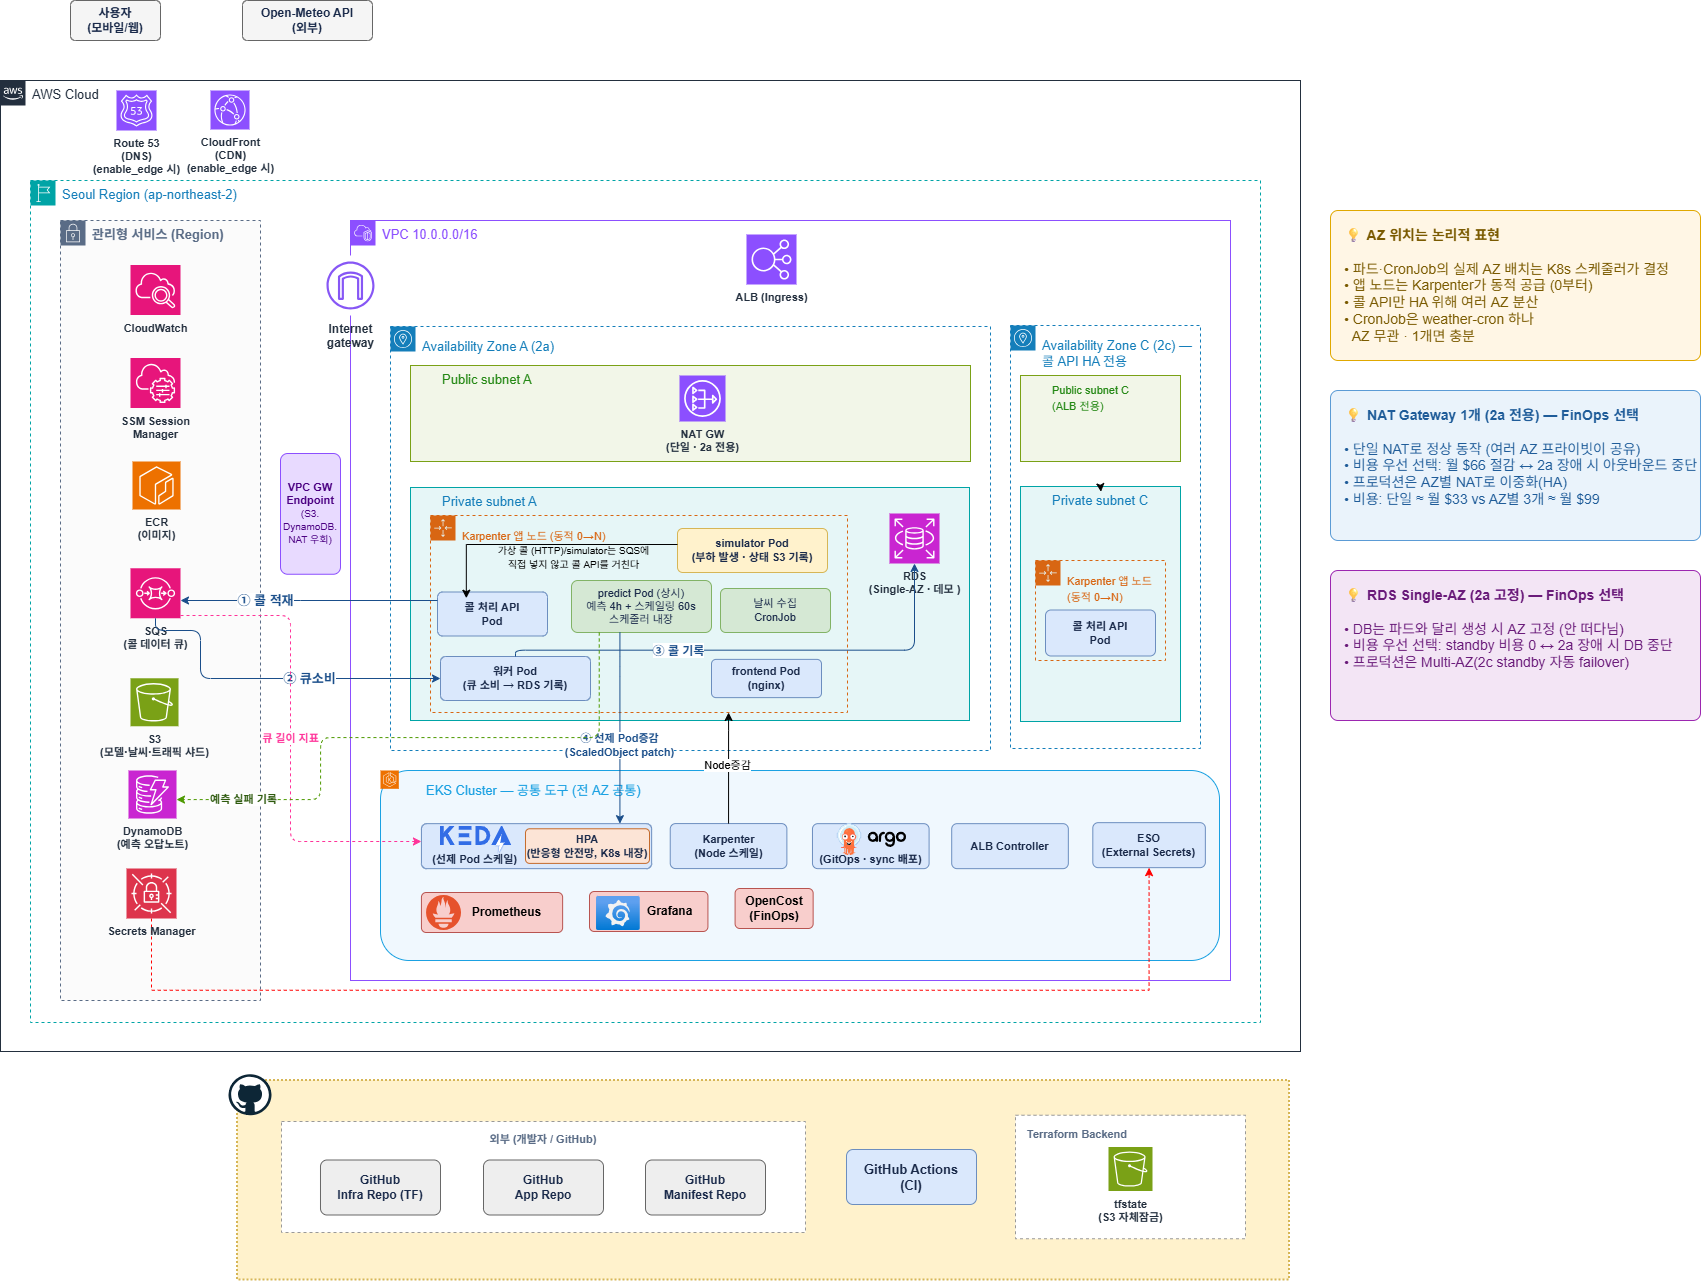
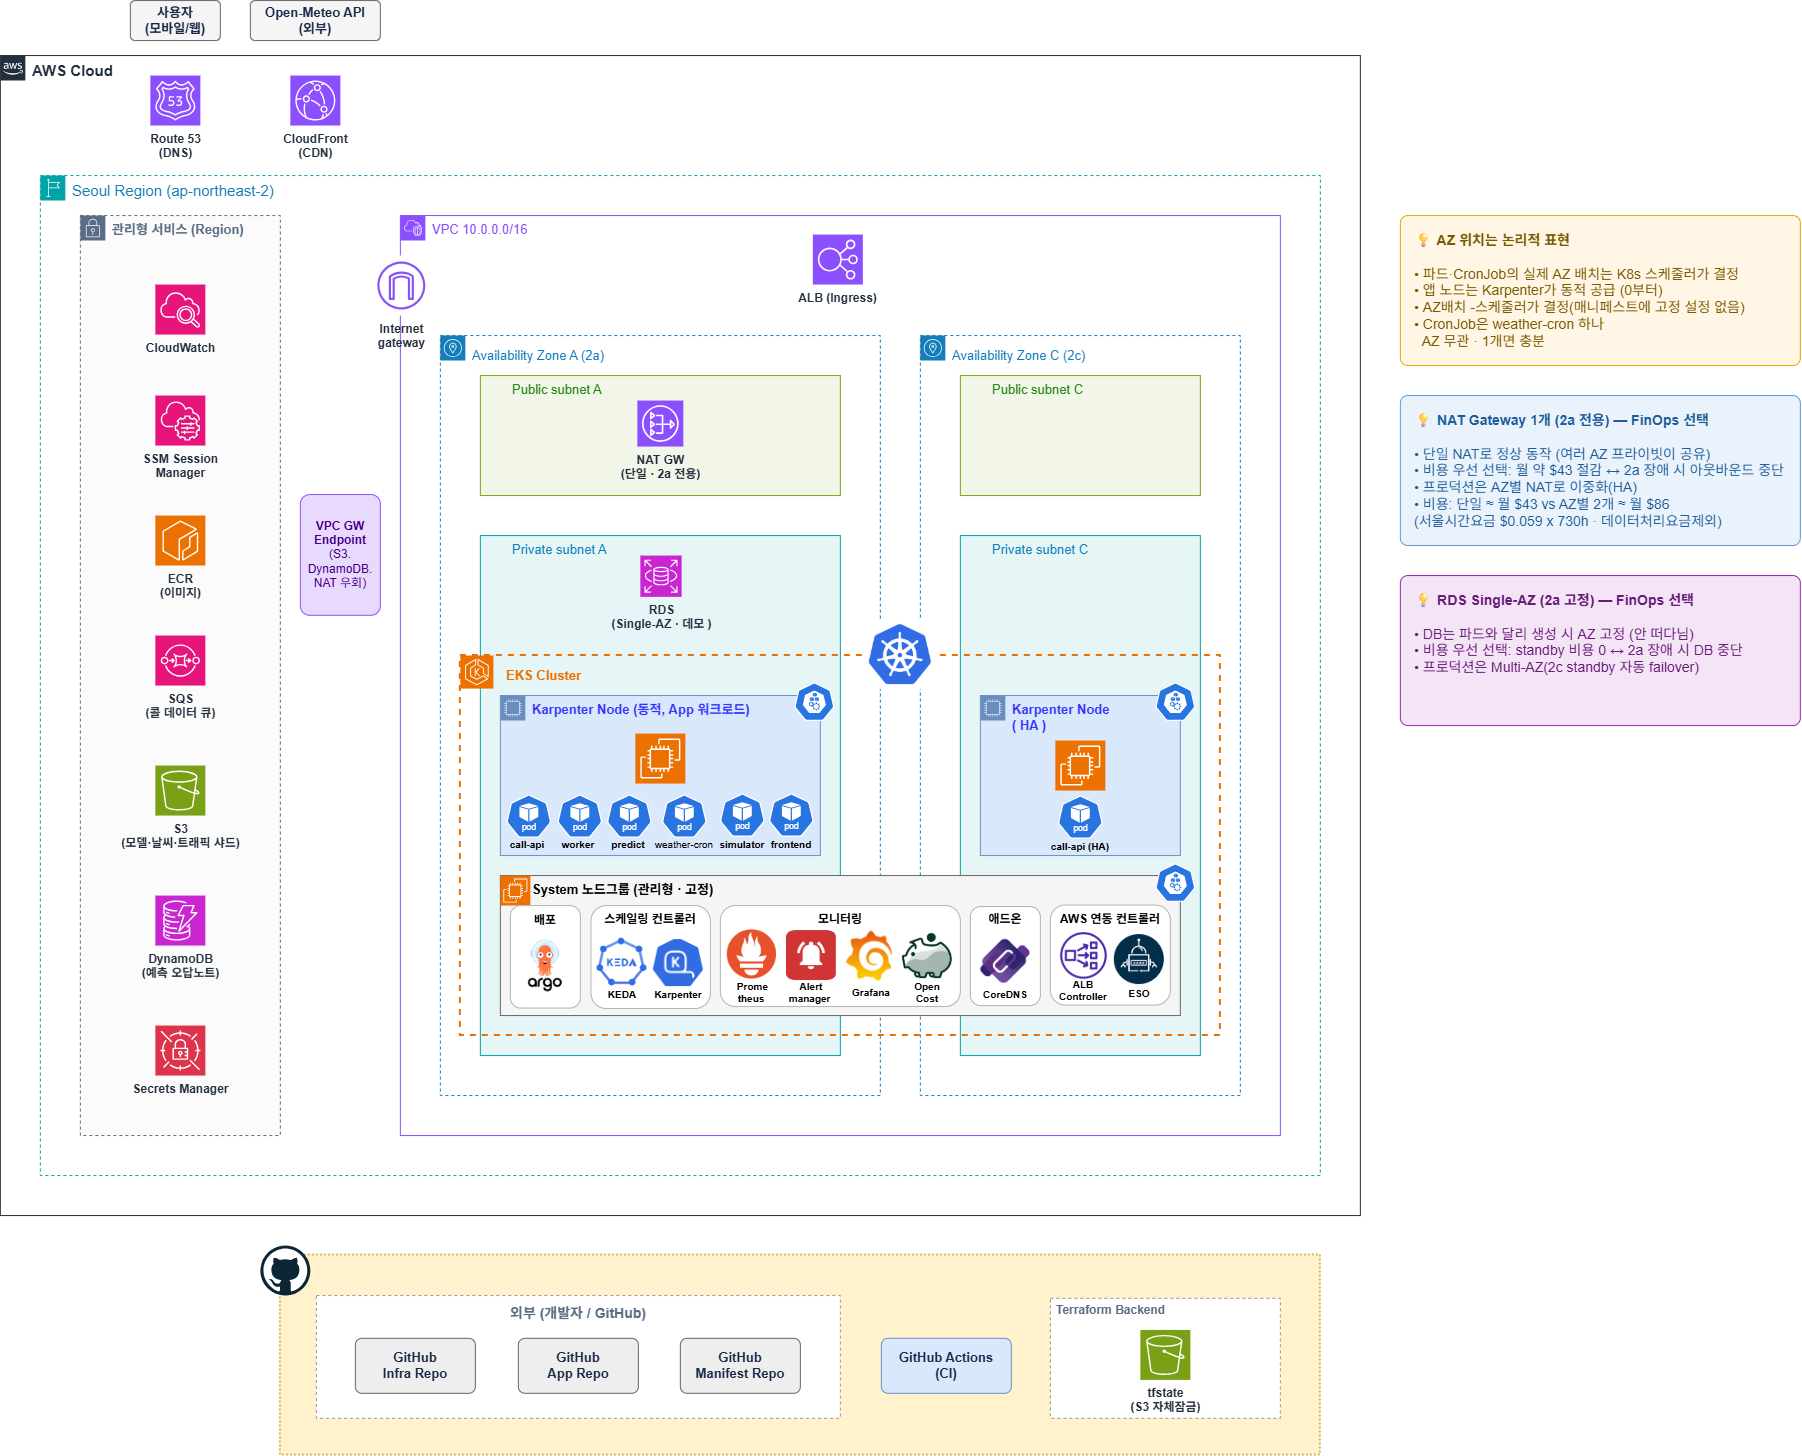
Docs(readme): 아키텍처 다이어그램 갱신·본문 정정
- architecture.png·cluster-topology.png를 최신 설계로 교체
- pod-architecture.png 신규 추가, README 3절에 연결
- 컴퓨트 계층 설명에 노드 배치가 taint·nodeSelector로
  강제되지 않는다는 사실 반영
- 예산 경보 책임 주체를 인프라 담당자(계정 주인)로 명확화
- 협업 규약의 승인 수 관련 경위 문구 삭제(현재 상태만 남김)

diff --git a/README.md b/README.md
@@ -63,10 +63,14 @@ VPC `10.0.0.0/16`, AZ 2a와 2c.
 | 계층 | 구성 |
 | --- | --- |
 | 진입 | ALB(배포팀 Ingress가 생성). 그 앞단에 Route53, ACM, CloudFront(`enable_edge` 기본 true, NS 위임과 ALB가 선행 조건) |
-| 컴퓨트 | EKS. 시스템 노드그룹(관리형)에 플랫폼 파드, 앱 파드는 Karpenter가 공급하는 Spot 노드에 |
+| 컴퓨트 | EKS. 관리형 System 노드그룹(2대 고정)에 플랫폼 도구, 앱 워크로드는 주로 Karpenter Spot 노드에 뜬다. taint나 nodeSelector로 강제하지는 않는다 |
 | 데이터 | S3(모델, 날씨, 트래픽 샤드), RDS PostgreSQL Single-AZ(콜, 예측, 스케일링 이력), DynamoDB(오답노트), SQS(콜 큐와 Karpenter 중단 큐), Secrets Manager(RDS 자동 생성 비번), Parameter Store(RDS 엔드포인트) |
 | 비용 | S3 CUR 버킷(AWS 청구 리포트와 Athena 쿼리 결과). OpenCost가 실청구액을 읽는 경로다 |
 | 접근, 보안 | SSH 인바운드 없음(SSM Session Manager). RDS 5432는 노드 SG에서 온 것만. 파드 권한은 IRSA로 역할별 분리 |
+
+파드 간 데이터 흐름:
+
+![파드 아키텍처](./docs/images/pod-architecture.png)
 
 노드와 서브넷 배치 상세:
 
@@ -85,7 +89,7 @@ VPC `10.0.0.0/16`, AZ 2a와 2c.
   environment 승인을 거친 dev 브랜치 전용이다. apply 역할의 방어선은 IAM 정책이 아니라
   신뢰정책이다(environment, 워크플로 파일, 브랜치를 고정).
 - 비용을 설계 범위에 넣었다. 전 리소스 비용 태그, 예산 경보, K8s가 만든 자원까지 걷어내는
-  teardown 순서 런북(비용관리.md)까지를 인프라가 책임진다.
+  teardown 순서 런북(비용관리.md)까지를 인프라 담당자(계정 주인)가 책임진다.
 - 개발 기간 비용은 스케줄로 줄인다. EventBridge Scheduler가 Lambda 없이 AWS API를 직접 불러
   매일 KST 02~10시에 시스템 노드그룹과 RDS를 내렸다 올린다(`enable_night_shutdown`, 기본 false).
   서비스 기능이 아니라 학습 기간 예산 장치다.
@@ -93,7 +97,6 @@ VPC `10.0.0.0/16`, AZ 2a와 2c.
 ## 5. 협업 규약
 
 - 브랜치: `main`(보호) ← `dev`(통합, PR + 승인 1) ← `feature/*`
-- 승인 수는 전 레포 1이다. infra만 2로 올리는 안이 있었으나 인원 재편으로 리뷰 가능 인원이 줄어 폐기했다
 - 커밋: `Type(scope): 제목` 형식. 예: `Feat(eks): ...`, `Docs(규약서): ...`
 - 이름을 바꿀 때는 코드보다 규약서를 먼저 고치고 팀에 공유한다. 규약서가 SSOT다.
 
